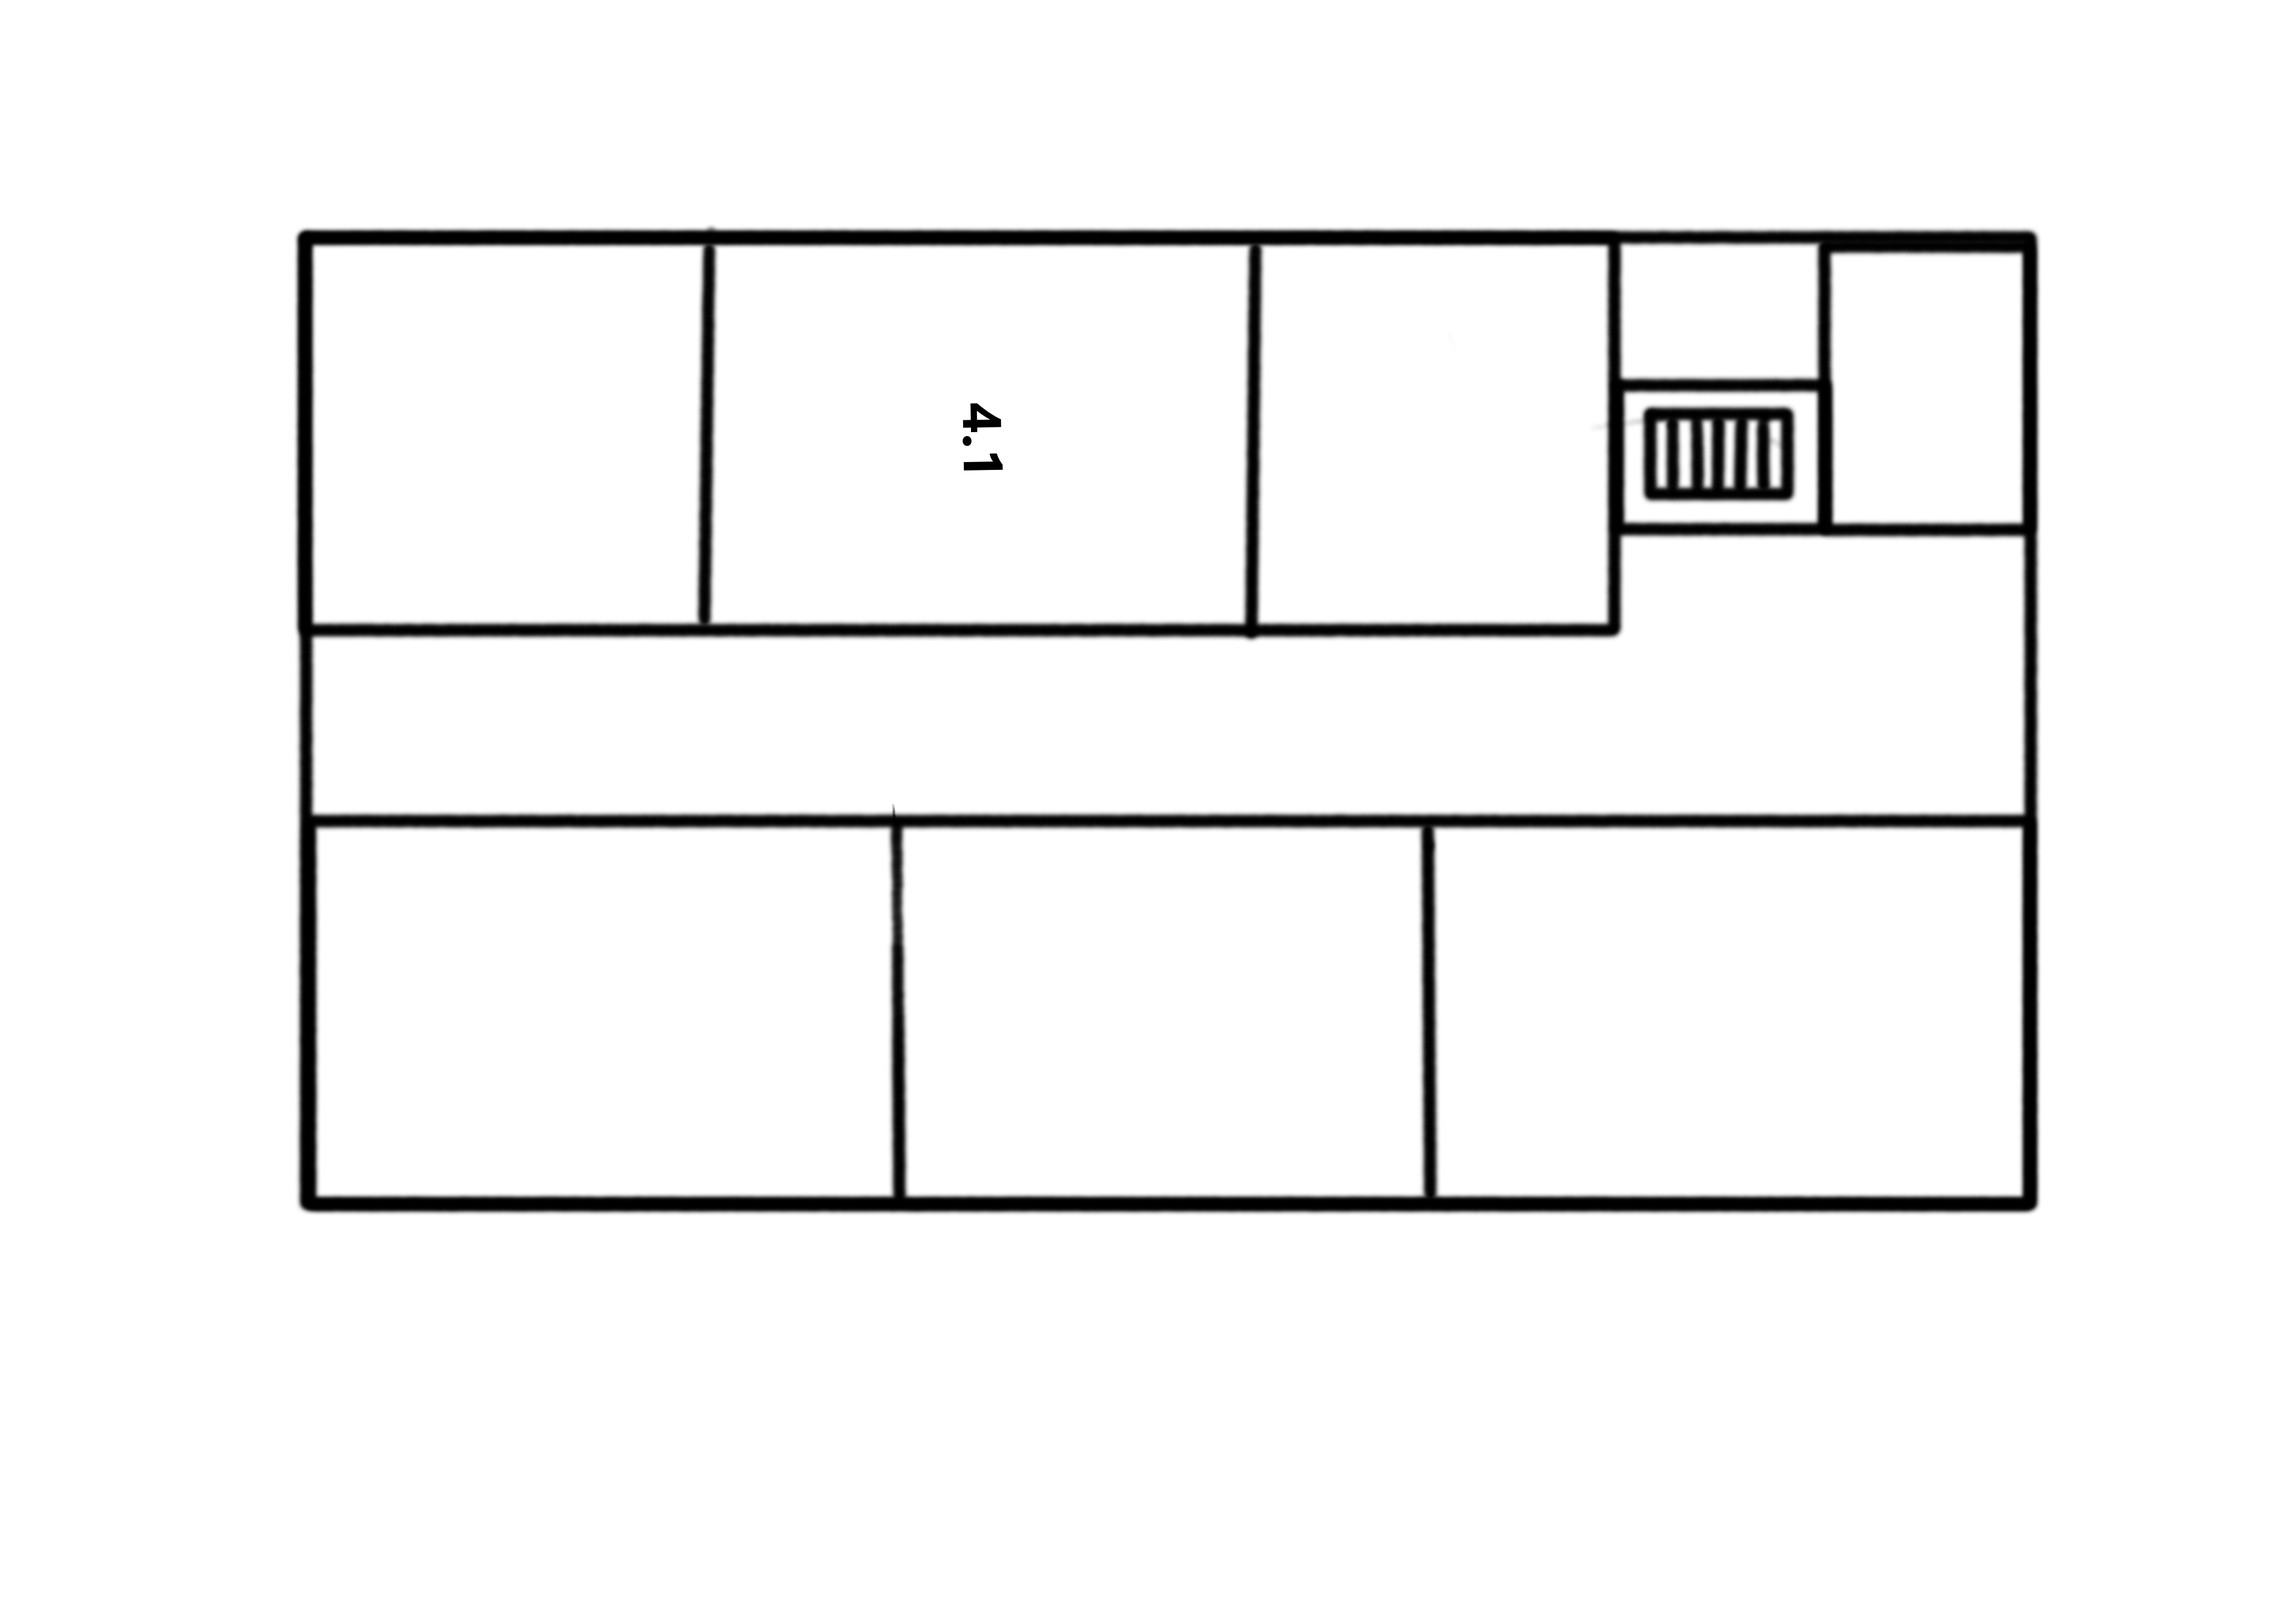
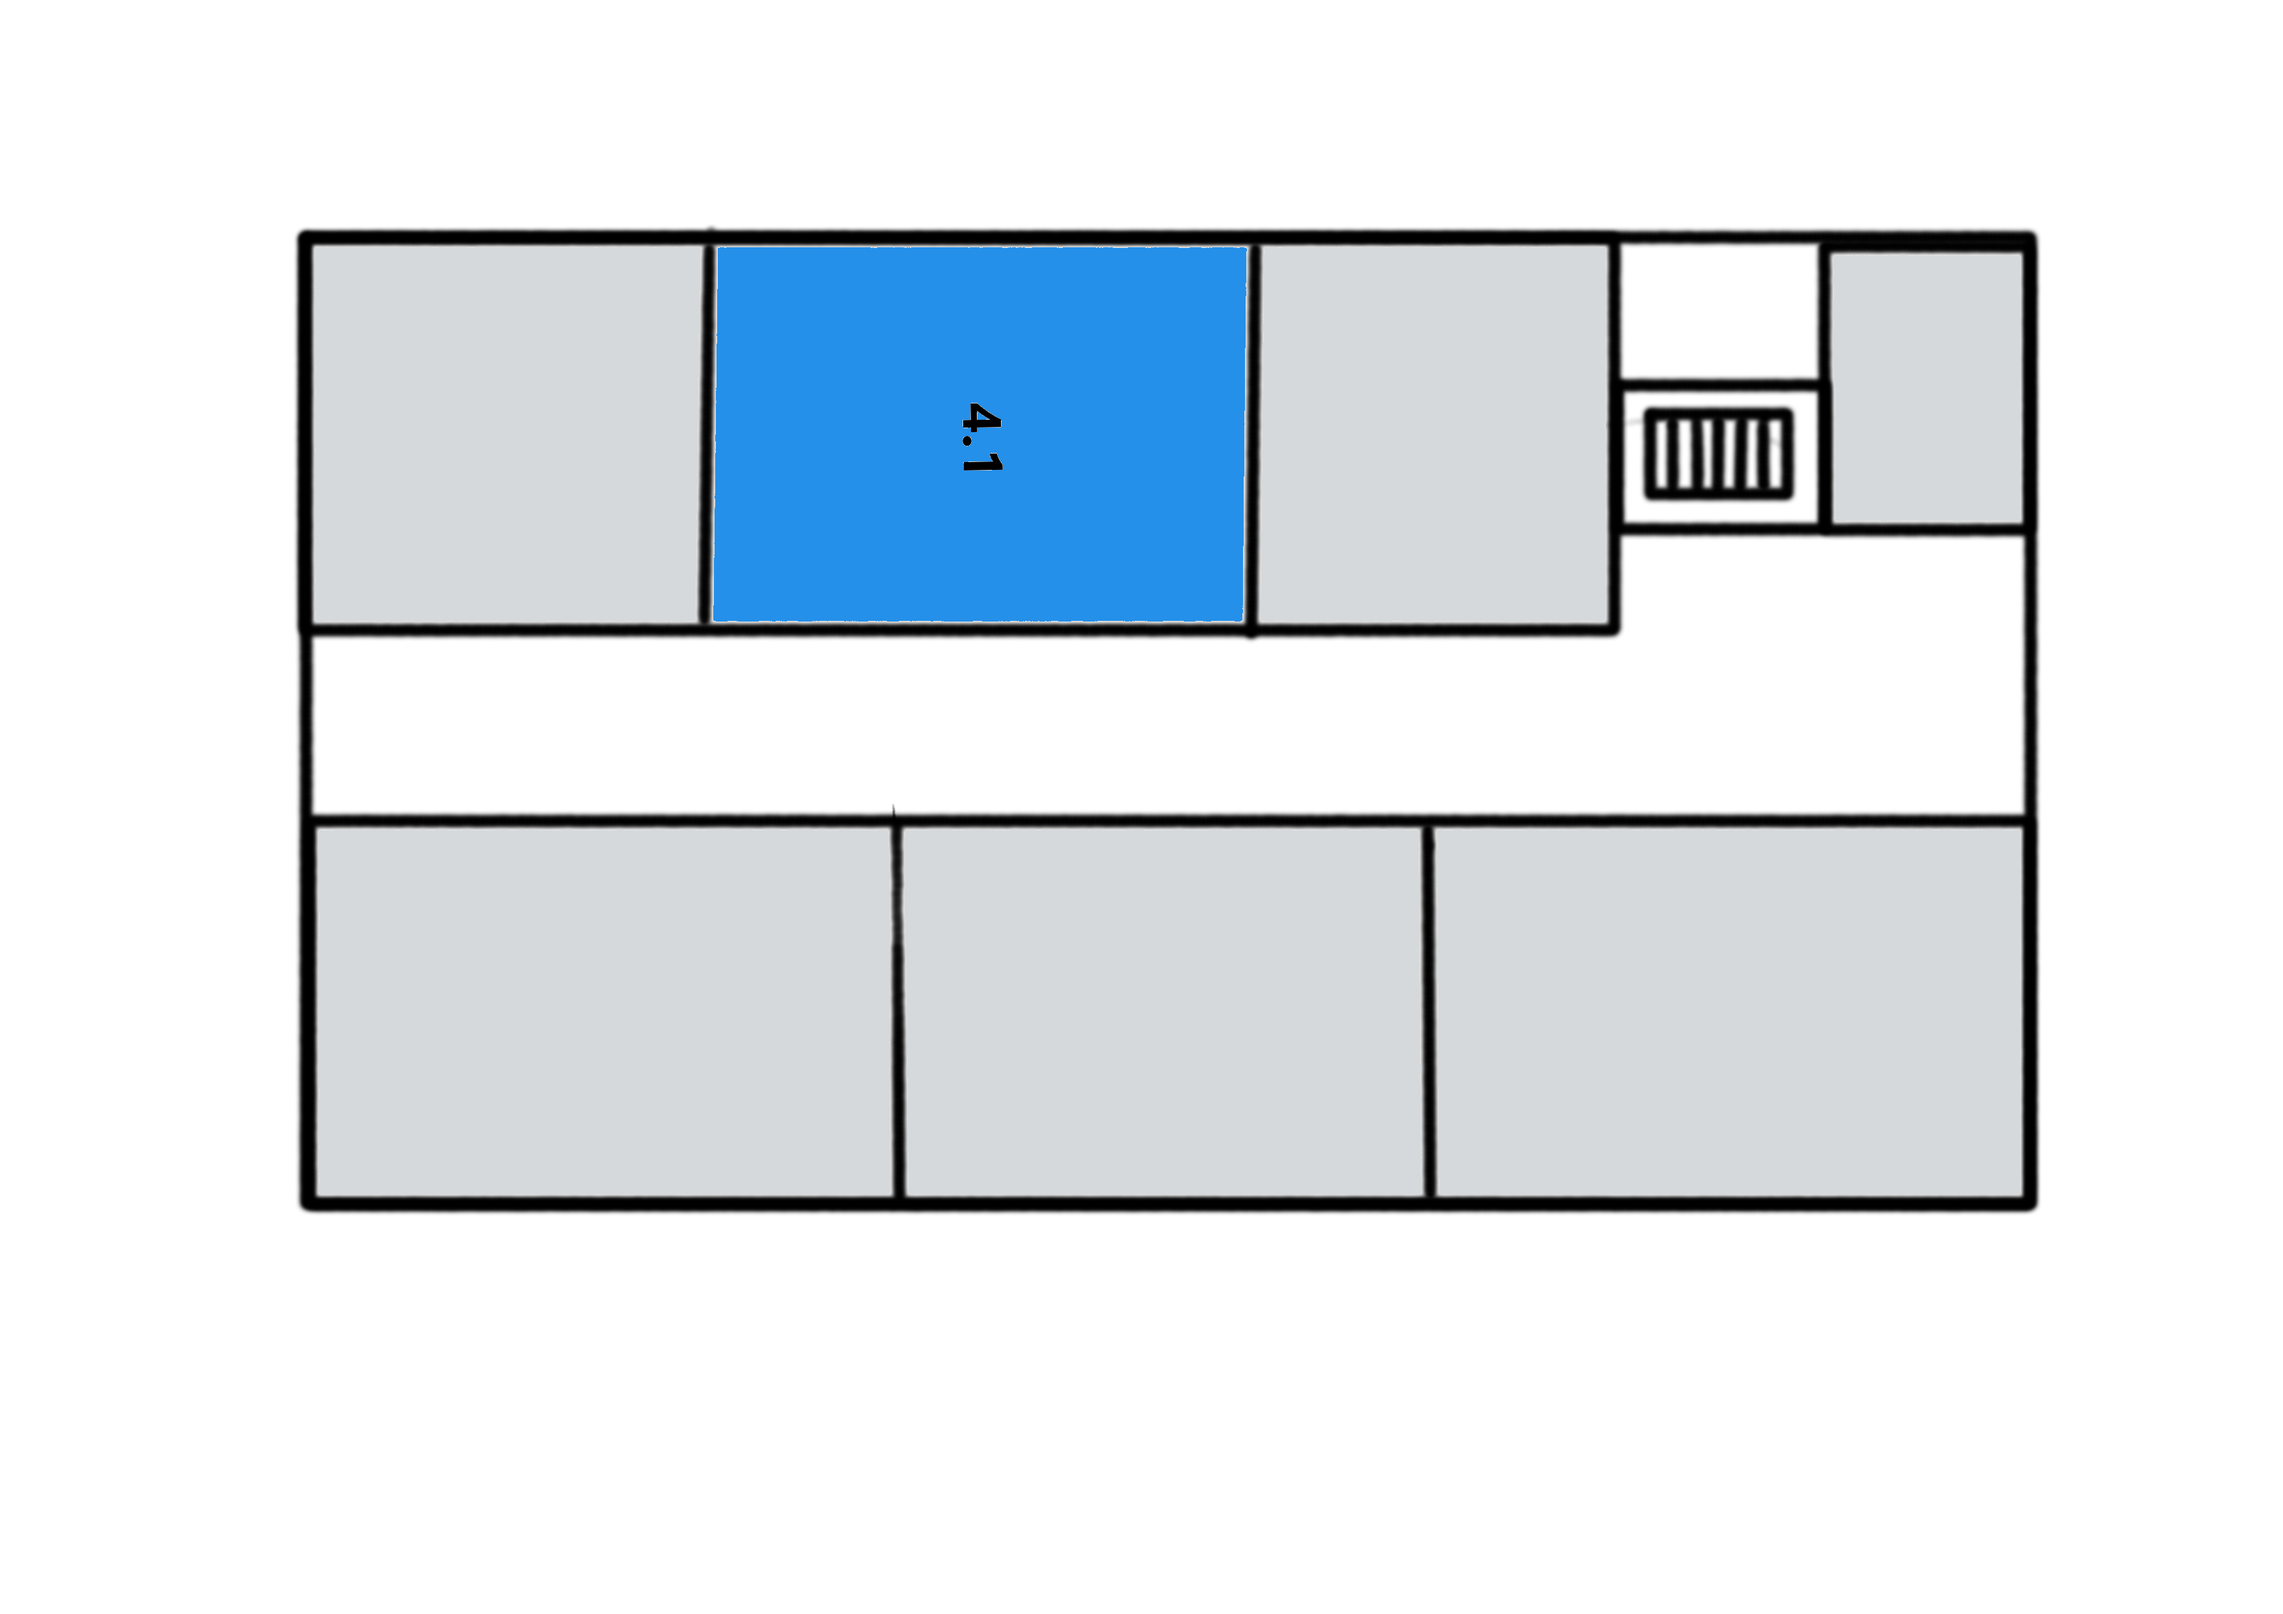
colored maps

diff --git a/block9.html b/block9.html
@@ -21,7 +21,7 @@
     </div>
 </body>
 
-<script src="script2.js"></script>
+<script src="script1.js"></script>
 </html>
 
 
